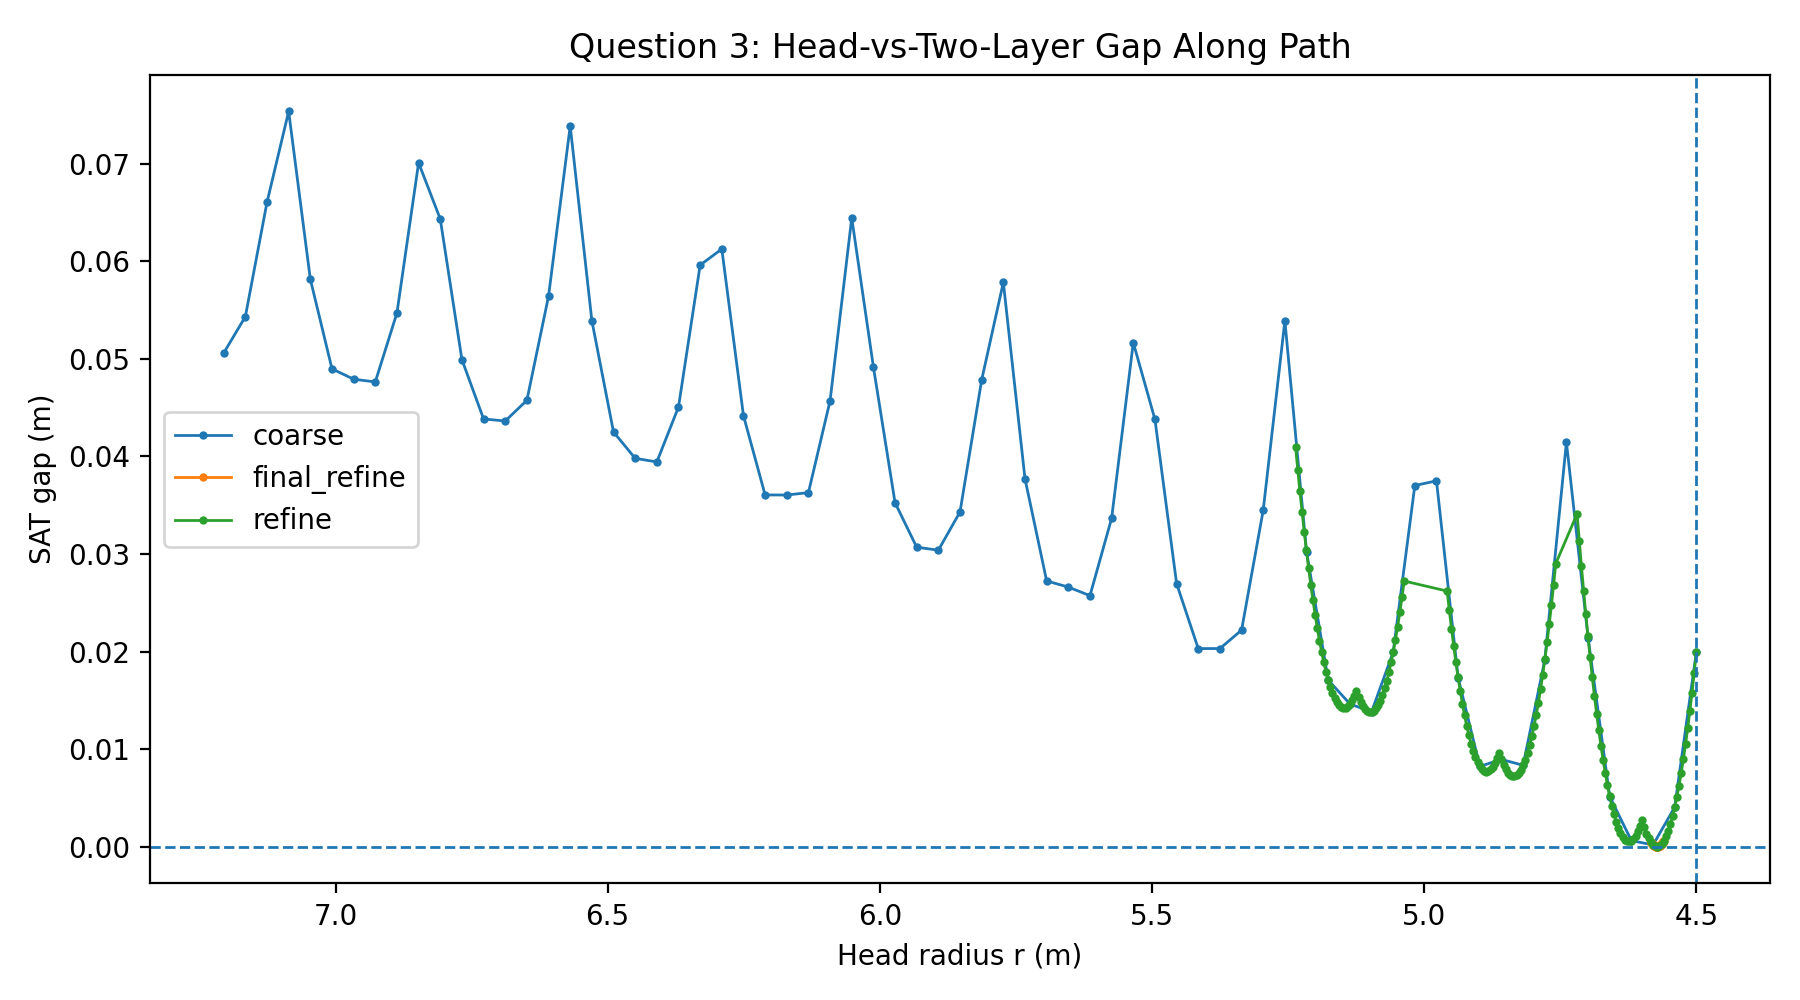
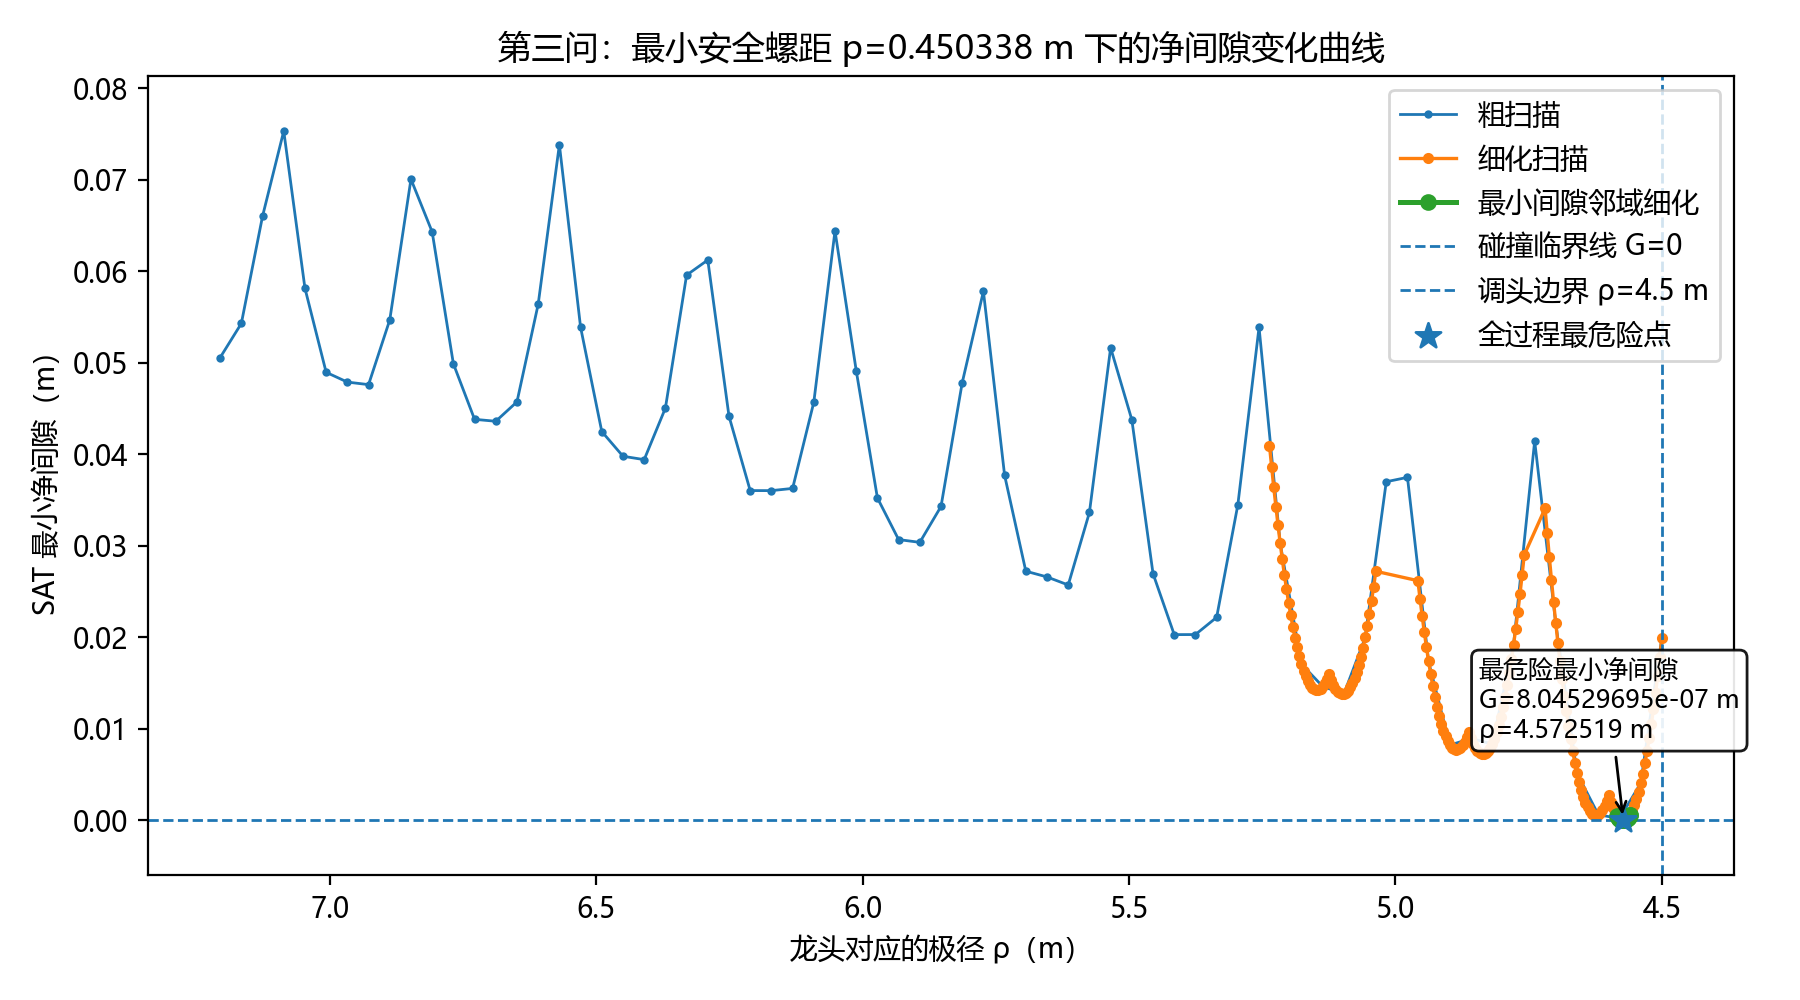
更新第三问

diff --git a/question3.py b/question3.py
@@ -33,9 +33,14 @@ matplotlib.use("Agg")
 import matplotlib.pyplot as plt
 import numpy as np
 import pandas as pd
+from matplotlib.ticker import FormatStrFormatter
 
 import dragon_data
 import utils
+
+# 中文绘图设置
+plt.rcParams["font.sans-serif"] = ["Microsoft YaHei", "SimHei", "SimSun", "Noto Sans CJK SC"]
+plt.rcParams["axes.unicode_minus"] = False
 
 
 # ==========================
@@ -90,7 +95,7 @@ class GapResult:
 
     @property
     def safe(self) -> bool:
-        return self.global_gap >= -GAP_EPS
+        return self.global_gap >= 0.0
 
 
 # ==========================
@@ -336,7 +341,7 @@ def _scan_radius_intervals(pitch: float, intervals: List[Tuple[float, float]], s
 
 
 def minimum_gap_along_path(pitch: float, return_history: bool = False) -> Tuple[GapResult, Optional[pd.DataFrame]]:
-    """计算某螺距下盘入到调头边界前，龙头与内两层板凳的全过程最小净间隙。"""
+    """计算某螺距下龙头盘入至调头边界前的全过程最小净间隙。\n    检测区间为 TURNING_RADIUS <= 龙头极径 <= 初始极径，不检测调头空间内部。\n    """
     pitch = float(pitch)
     initial_radius = pitch * INITIAL_THETA / (2.0 * np.pi)  # =16p
 
@@ -526,6 +531,7 @@ def save_outputs(result: dict) -> Dict[str, Path]:
     summary_txt = table_dir / "question3_summary.txt"
     gap_radius_png = fig_dir / "question3_gap_vs_radius.png"
     gap_pitch_png = fig_dir / "question3_bisection_gap.png"
+    gap_pitch_zoom_png = fig_dir / "question3_bisection_gap_zoom.png"
 
     result["bracket_df"].to_csv(bracket_csv, index=False, encoding="utf-8-sig")
     pd.DataFrame(result["iterations"]).to_csv(iterations_csv, index=False, encoding="utf-8-sig")
@@ -537,41 +543,245 @@ def save_outputs(result: dict) -> Dict[str, Path]:
         f"理论半径约束下界: {THEORETICAL_PITCH_LOW:.9f} m\n"
         f"本文采用的二分下界: {PITCH_SEARCH_LOW:.9f} m（板凳宽度）\n"
         f"内两层极角范围: theta_head 到 theta_head + {LAYER_THETA_SPAN:.9f}\n"
+        f"安全判定区间: 龙头极径 rho 从 {result['final_pitch'] * INITIAL_THETA / (2.0 * np.pi):.9f} m 盘入至 {TURNING_RADIUS:.9f} m，要求全过程 G>=0\n"
         f"最小安全螺距: {result['final_pitch']:.9f} m\n"
         f"最小安全螺距: {result['final_pitch'] * 100.0:.6f} cm\n"
-        f"临界最小净间隙: {result['final_gap']:.12f} m\n"
-        f"临界半径: {result['final_gap_radius']:.9f} m\n"
-        f"临界板凳对: {result['best_pair']}\n"
-        f"临界状态检测板凳对数量: {result['final_pair_count']}\n"
+        f"最终临界半径（调头边界）: {result['final_gap_radius']:.9f} m\n"
+        f"边界处净间隙: {result['final_gap']:.12f} m\n"
+        f"边界处检测板凳对: {result['best_pair']}\n"
+        f"全过程最小净间隙: {result['path_min_gap']:.12f} m\n"
+        f"全过程最危险极径: {result['path_risk_radius']:.9f} m\n"
+        f"全过程最危险板凳对: {result['path_risk_pair']}\n"
+        f"边界状态检测板凳对数量: {result['final_pair_count']}\n"
     )
     summary_txt.write_text(summary, encoding="utf-8")
 
     rdf = result["radius_history_df"]
+    stage_name_map = {
+        "coarse": "粗扫描",
+        "refine": "细化扫描",
+        "final_refine": "最小间隙邻域细化",
+    }
+    stage_style_map = {
+        "coarse": {"markersize": 2, "linewidth": 1.0, "zorder": 1},
+        "refine": {"markersize": 3, "linewidth": 1.2, "zorder": 2},
+        "final_refine": {"markersize": 5, "linewidth": 1.8, "zorder": 3},
+    }
+
     plt.figure(figsize=(9, 5))
-    for stage, group in rdf.groupby("stage"):
-        plt.plot(group["head_radius_m"], group["gap_m"], marker="o", markersize=2, linewidth=1.0, label=stage)
-    plt.axhline(0.0, linestyle="--", linewidth=1.0)
-    plt.axvline(TURNING_RADIUS, linestyle="--", linewidth=1.0)
-    plt.gca().invert_xaxis()
-    plt.xlabel("Head radius r (m)")
-    plt.ylabel("SAT gap (m)")
-    plt.title("Question 3: Head-vs-Two-Layer Gap Along Path")
-    plt.legend()
+    ax = plt.gca()
+
+    for stage in ["coarse", "refine", "final_refine"]:
+        group = rdf[rdf["stage"] == stage].copy()
+        if len(group) == 0:
+            continue
+
+        # 直接绘制真实 SAT 净间隙，不做截断处理。
+        gap_plot = group["gap_m"].to_numpy(dtype=float)
+        style = stage_style_map[stage]
+
+        ax.plot(
+            group["head_radius_m"].to_numpy(dtype=float),
+            gap_plot,
+            marker="o",
+            markersize=style["markersize"],
+            linewidth=style["linewidth"],
+            zorder=style["zorder"],
+            label=stage_name_map.get(stage, stage),
+        )
+
+    ax.axhline(0.0, linestyle="--", linewidth=1.0, label="碰撞临界线 G=0")
+    ax.axvline(TURNING_RADIUS, linestyle="--", linewidth=1.0, label=f"调头边界 ρ={TURNING_RADIUS:.1f} m")
+    ax.invert_xaxis()
+
+    y_min = float(np.nanmin(rdf["gap_m"].to_numpy(dtype=float)))
+    y_max = float(np.nanmax(rdf["gap_m"].to_numpy(dtype=float)))
+    y_pad = max(0.001, 0.08 * (y_max - y_min + 1e-12))
+    ax.set_ylim(y_min - y_pad, y_max + y_pad)
+
+    # 标出全过程最危险点（即全过程最小净间隙点）
+    risk_x = float(result["path_risk_radius"])
+    risk_y = float(result["path_min_gap"])
+    ax.scatter(
+        [risk_x],
+        [risk_y],
+        s=90,
+        marker="*",
+        zorder=6,
+        label="全过程最危险点",
+    )
+
+    # 根据坐标范围自适应放置注释，避免遮挡曲线
+    x_span = float(np.nanmax(rdf["head_radius_m"].to_numpy(dtype=float)) - np.nanmin(rdf["head_radius_m"].to_numpy(dtype=float)))
+    y_span = float(np.nanmax(rdf["gap_m"].to_numpy(dtype=float)) - np.nanmin(rdf["gap_m"].to_numpy(dtype=float)))
+    if x_span <= 0:
+        x_span = 1.0
+    if y_span <= 0:
+        y_span = 1e-6
+
+    ax.annotate(
+        f"最危险最小净间隙\nG={risk_y:.8e} m\nρ={risk_x:.6f} m",
+        xy=(risk_x, risk_y),
+        xytext=(risk_x + 0.10 * x_span, risk_y + 0.12 * y_span),
+        textcoords="data",
+        arrowprops=dict(arrowstyle="->", linewidth=1.0),
+        bbox=dict(boxstyle="round", facecolor="white", alpha=0.90),
+        fontsize=9,
+        zorder=7,
+    )
+
+    ax.set_xlabel("龙头对应的极径 ρ（m）")
+    ax.set_ylabel("SAT 最小净间隙（m）")
+    ax.set_title(f"第三问：最小安全螺距 p={result['final_pitch']:.6f} m 下的净间隙变化曲线")
+    ax.legend()
     plt.tight_layout()
     plt.savefig(gap_radius_png, dpi=200)
     plt.close()
 
     itdf = pd.DataFrame(result["iterations"])
+
+    # 图 1：螺距二分搜索全过程。横坐标保留为螺距 p。
     plt.figure(figsize=(9, 5))
+    ax = plt.gca()
+
     if len(itdf) > 0:
-        plt.plot(itdf["middle_pitch_m"], itdf["middle_gap_m"], marker="o", linewidth=1.0)
-    plt.axhline(0.0, linestyle="--", linewidth=1.0)
-    plt.axvline(result["final_pitch"], linestyle="--", linewidth=1.0)
-    plt.xlabel("Pitch p (m)")
-    plt.ylabel("Minimum SAT gap along path (m)")
-    plt.title("Question 3: Pitch Bisection History")
+        x = itdf["middle_pitch_m"].to_numpy(dtype=float)
+        y = itdf["middle_gap_m"].to_numpy(dtype=float)
+
+        # 统一点的标记方法：所有二分迭代点均使用同一种圆点标记。
+        ax.plot(
+            x,
+            y,
+            marker="o",
+            markersize=4,
+            linewidth=1.0,
+            alpha=0.85,
+            label="二分迭代点",
+        )
+
+        ax.axvline(
+            result["final_pitch"],
+            linestyle="--",
+            linewidth=1.0,
+            label=f"最小安全螺距 p={result['final_pitch']:.4f} m",
+        )
+
+    ax.axhline(0.0, linestyle="--", linewidth=1.0, label="碰撞临界线 G=0")
+    ax.set_xlabel("螺距 p（m）")
+    ax.set_ylabel("沿盘入过程的最小净间隙（m）")
+    ax.set_title("第三问：最小安全螺距二分搜索过程")
+    ax.ticklabel_format(axis="x", style="plain", useOffset=False)
+    ax.legend()
     plt.tight_layout()
     plt.savefig(gap_pitch_png, dpi=200)
+    plt.close()
+
+    # 图 1-局部：单独输出临界螺距附近的真正局部放大图。
+    # 这里只保留最后几次二分迭代点，并重新设置非常紧凑的坐标范围。
+    plt.figure(figsize=(8.2, 5.4))
+    ax_zoom = plt.gca()
+
+    if len(itdf) > 0:
+        zoom_count = min(6, len(itdf))
+        zoom_df = itdf.tail(zoom_count).copy()
+
+        x_zoom = zoom_df["middle_pitch_m"].to_numpy(dtype=float)
+        y_zoom = zoom_df["middle_gap_m"].to_numpy(dtype=float)
+
+        ax_zoom.plot(
+            x_zoom,
+            y_zoom,
+            marker="o",
+            markersize=5,
+            linewidth=1.2,
+            alpha=0.95,
+            label="二分迭代点",
+        )
+
+        ax_zoom.axvline(
+            result["final_pitch"],
+            linestyle="--",
+            linewidth=1.0,
+            label=f"最小安全螺距 p={result['final_pitch']:.6f} m",
+        )
+
+        # 使用最后几次迭代点的真实范围作为放大边界，边距取得更小，从而实现真正放大。
+        x_min, x_max = float(np.min(x_zoom)), float(np.max(x_zoom))
+        y_min, y_max = float(np.min(y_zoom)), float(np.max(y_zoom))
+
+        x_range = x_max - x_min
+        y_range = y_max - y_min
+
+        x_pad = max(5e-8, 0.08 * (x_range + 1e-12))
+        y_pad = max(5e-8, 0.10 * (y_range + 1e-12))
+
+        ax_zoom.set_xlim(x_min - x_pad, x_max + x_pad)
+        ax_zoom.set_ylim(y_min - y_pad, y_max + y_pad)
+
+        # 标出最后一次安全迭代点（即最终最小安全螺距）
+        ax_zoom.scatter(
+            [result["final_pitch"]],
+            [0.0],
+            s=70,
+            marker="s",
+            zorder=6,
+            label="最终螺距位置",
+        )
+
+        ax_zoom.xaxis.set_major_formatter(FormatStrFormatter("%.8f"))
+        ax_zoom.yaxis.set_major_formatter(FormatStrFormatter("%.8e"))
+
+    ax_zoom.axhline(0.0, linestyle="--", linewidth=1.0, label="碰撞临界线 G=0")
+    ax_zoom.set_xlabel("螺距 p（m）")
+    ax_zoom.set_ylabel("沿盘入过程的最小净间隙（m）")
+    ax_zoom.set_title("第三问：临界螺距附近二分搜索局部放大图")
+    ax_zoom.grid(True, linestyle=":", linewidth=0.6, alpha=0.8)
+    ax_zoom.legend()
+    plt.tight_layout()
+    plt.savefig(gap_pitch_zoom_png, dpi=260)
+    plt.close()
+
+    # 图 1-局部：单独输出临界螺距附近的局部放大图。
+    plt.figure(figsize=(7, 4.5))
+    ax_zoom = plt.gca()
+
+    if len(itdf) > 0:
+        x = itdf["middle_pitch_m"].to_numpy(dtype=float)
+        y = itdf["middle_gap_m"].to_numpy(dtype=float)
+        x_center = float(result["final_pitch"])
+        x_half = max(0.003, 0.12 * (float(np.max(x)) - float(np.min(x))))
+        x1, x2 = x_center - x_half, x_center + x_half
+        zoom_mask = (x >= x1) & (x <= x2)
+
+        ax_zoom.plot(
+            x[zoom_mask],
+            y[zoom_mask],
+            marker="o",
+            markersize=4,
+            linewidth=1.0,
+            alpha=0.85,
+            label="二分迭代点",
+        )
+        ax_zoom.axvline(
+            result["final_pitch"],
+            linestyle="--",
+            linewidth=1.0,
+            label=f"最小安全螺距 p={result['final_pitch']:.6f} m",
+        )
+        ax_zoom.set_xlim(x1, x2)
+
+        if np.any(zoom_mask):
+            y_zoom = y[zoom_mask]
+            y_pad = max(0.0005, 0.18 * (float(np.max(y_zoom)) - float(np.min(y_zoom)) + 1e-12))
+            ax_zoom.set_ylim(float(np.min(y_zoom)) - y_pad, float(np.max(y_zoom)) + y_pad)
+
+    ax_zoom.axhline(0.0, linestyle="--", linewidth=1.0, label="碰撞临界线 G=0")
+    ax_zoom.set_xlabel("螺距 p（m）")
+    ax_zoom.set_ylabel("沿盘入过程的最小净间隙（m）")
+    ax_zoom.set_title("第三问：临界螺距附近二分搜索局部放大图")
+    ax_zoom.legend()
+    plt.tight_layout()
+    plt.savefig(gap_pitch_zoom_png, dpi=200)
     plt.close()
 
     return {
@@ -582,6 +792,7 @@ def save_outputs(result: dict) -> Dict[str, Path]:
         "summary_txt": summary_txt,
         "gap_radius_png": gap_radius_png,
         "gap_pitch_png": gap_pitch_png,
+        "gap_pitch_zoom_png": gap_pitch_zoom_png,
     }
 
 
@@ -590,19 +801,34 @@ def solve_question3() -> dict:
     left_pitch, right_pitch, bracket_df = find_pitch_bracket()
     print(f"二分初始区间: [{left_pitch:.9f}, {right_pitch:.9f}] m")
 
-    final_pitch, final_best, iterations = bisect_pitch(left_pitch, right_pitch)
-    final_best, radius_history_df = minimum_gap_along_path(final_pitch, return_history=True)
+    # final_best 是 rho∈[4.5, 16p] 全过程中的最小净间隙状态，
+    # 用于保证“到达 4.5m 之前不碰撞”。
+    final_pitch, path_best, iterations = bisect_pitch(left_pitch, right_pitch)
+    path_best, radius_history_df = minimum_gap_along_path(final_pitch, return_history=True)
 
-    # 输出龙头到达调头空间边界 r=4.5m 时的完整状态。
+    # 题目要求龙头盘入到调头空间边界，因此最终临界半径定义为边界半径 4.5m。
+    # 注意：path_best.head_radius 是全过程中最危险的位置，不再称为“最终临界半径”。
+    boundary_collision = evaluate_gap_at_radius(final_pitch, TURNING_RADIUS, keep_state=True)
+
+    # 输出龙头到达调头空间边界 rho=4.5m 时的完整状态。
     boundary_state = solve_state_by_head_radius(final_pitch, TURNING_RADIUS)
     boundary_df = build_boundary_dataframe(boundary_state)
 
     result = {
         "final_pitch": final_pitch,
-        "final_gap": final_best.global_gap,
-        "final_gap_radius": final_best.head_radius,
-        "best_pair": final_best.best_pair,
-        "final_pair_count": final_best.pair_count,
+
+        # 最终临界位置：按题意取调头空间边界，保证不大于 4.5m。
+        "final_gap": boundary_collision.global_gap,
+        "final_gap_radius": TURNING_RADIUS,
+        "best_pair": boundary_collision.best_pair,
+        "final_pair_count": boundary_collision.pair_count,
+
+        # 全路径安全性校验：这是 rho∈[4.5,16p] 中真正的最小净间隙。
+        "path_min_gap": path_best.global_gap,
+        "path_risk_radius": path_best.head_radius,
+        "path_risk_pair": path_best.best_pair,
+        "path_pair_count": path_best.pair_count,
+
         "bracket_df": bracket_df,
         "iterations": iterations,
         "radius_history_df": radius_history_df,
@@ -616,10 +842,13 @@ def main() -> None:
     result = solve_question3()
     print("\n第三问完成。")
     print(f"最小安全螺距 = {result['final_pitch']:.9f} m = {result['final_pitch'] * 100.0:.6f} cm")
-    print(f"临界最小净间隙 = {result['final_gap']:.12f} m")
-    print(f"临界半径 = {result['final_gap_radius']:.9f} m")
-    print(f"临界板凳对 = {result['best_pair']}")
-    print(f"临界状态检测对数量 = {result['final_pair_count']}")
+    print(f"最终临界半径（调头边界） = {result['final_gap_radius']:.9f} m")
+    print(f"边界处净间隙 = {result['final_gap']:.12f} m")
+    print(f"边界处板凳对 = {result['best_pair']}")
+    print(f"全过程最小净间隙 = {result['path_min_gap']:.12f} m")
+    print(f"全过程最危险极径 = {result['path_risk_radius']:.9f} m")
+    print(f"全过程最危险板凳对 = {result['path_risk_pair']}")
+    print(f"边界状态检测对数量 = {result['final_pair_count']}")
     print("\n已生成文件：")
     for path in result["output_paths"].values():
         print(path)